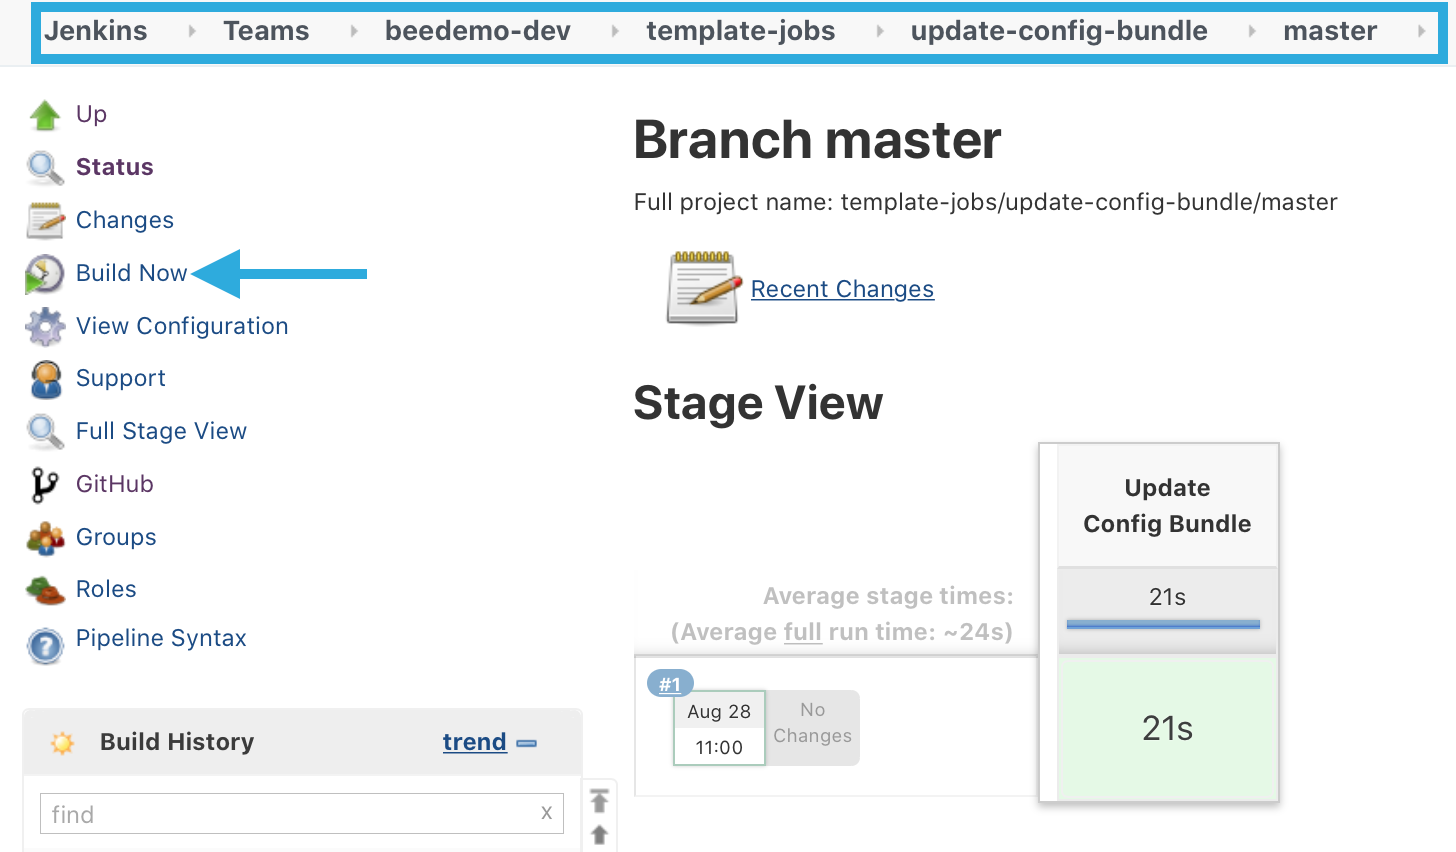
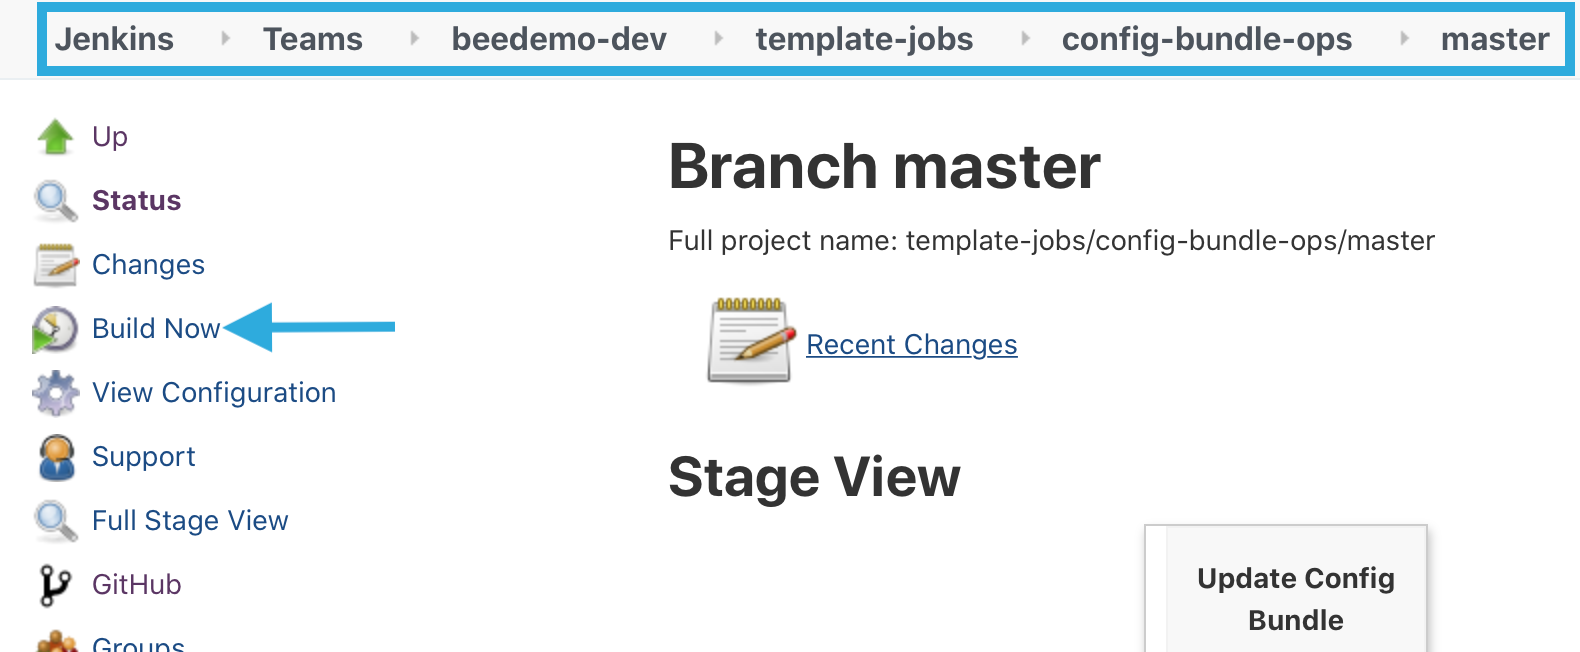
updated policies lab

diff --git a/labs/cloudbees-ci/content/module-1/pipeline-policies.md b/labs/cloudbees-ci/content/module-1/pipeline-policies.md
@@ -9,19 +9,19 @@ weight: 3
 In this lab you will create a [Pipeline Policy](https://docs.cloudbees.com/docs/admin-resources/latest/pipelines-user-guide/pipeline-policies) to ensure that all Pipeline jobs that run on your CloudBees CI ***managed controller*** (Jenkins instance) have a 30 minute global `timeout` set.
 
 1. Navigate to the top-level of your CloudBees CI managed controller and click on **Pipeline Policies** in the left menu. ![Pipeline Policies Link](policies-click.png?width=50pc) 
-2. Next click on the **New Policy** button.
+2. Next, on the **Pipeline Policies** screen, click on the **New Policy** button.
 3. Fill out the Pipeline Policy parameters:
-   1. **Name**: Timeout policy
-   2. **Action**: Fail
+   1. **Name**: ***Timeout policy***
+   2. **Action**: ***Fail***
    3. Click on **Add Rule** button: 
       1. Select **Pipeline Timeout**
       2. **Timeout**: 30 MINUTES
    4. Click the **Save** button ![Create Policy](policy-timeout-form.png?width=50pc) 
-4. Navigate back to the **update-config-bundle** Mutlibranch project in the **template-jobs** folder, click on the **master** branch job and then click the **Build Now** link in the left menu. ![Build with Policy](build-with-policy.png?width=50pc) 
+4. Navigate to the **config-bundle-ops** Mutlibranch project in the **template-jobs** folder, click on the **master** branch job and then click the **Build Now** link in the left menu. ![Build with Policy](build-with-policy.png?width=50pc) 
 5. Navigate to the logs for that build and you will see that the build failed due to **Validation Errors** ![Policy Error](pipeline-policy-error.png?width=50pc) 
 6. To fix this we will have to update the `Jenkinsfile` of the **CloudBees CI Configuration Bundle** template in your forked copy of the `pipeline-template-catalog` repository - remember, even though we are building from the `cloudbees-ci-config-bundle` repository, the `Jenkinsfile` is actually coming from the **CloudBees CI Configuration Bundle** template. Navigate to that `Jenkinsfile` and the click the **pencil icon** to open it in the GitHub file editor. ![Edit Timeout](pipeline-policy-open-jenkinsfile.png?width=50pc) 
-7. In the GitHub file editor, change the `time` value of the `timeout` pipeline `option`  from `60` to `30` and then click the **Commit changes** button to commit the updated `Jenkinsfile` to your **master** branch. ![Fix Timeout](pipeline-policy-fix-commit-jenkinsfile.png?width=50pc) 
-{{%expand "Expand to copy complete updated Jenkinsfile" %}}
+7. In the GitHub file editor, change the `time` value of the `timeout` pipeline `option`  from `60` to `10` and then click the **Commit changes** *(directly to the `master` branch)* button to commit the updated `Jenkinsfile` to your **master** branch. ![Fix Timeout](pipeline-policy-fix-commit-jenkinsfile.png?width=50pc) 
+{{%expand "expand to copy edited Jenkinsfile" %}}
 ```groovy
 @Library('pipeline-library@master') _
 pipeline {
@@ -29,7 +29,7 @@ pipeline {
   options {
     buildDiscarder(logRotator(numToKeepStr: '2'))
     skipDefaultCheckout true
-    timeout(time: 30, unit: 'MINUTES')
+    timeout(time: 10, unit: 'MINUTES')
   }
   stages {
     stage('Update Config Bundle') {
@@ -46,9 +46,9 @@ pipeline {
 ```
 {{% /expand%}}
 
-1. Next, to ensure that we are using the updated **CloudBees CI Configuration Bundle** template, we will **re-import** the Pipeline Template Catalog you just updated. Navigate to the top-level of your CloudBees CI ***managed controller*** and click on **Pipeline Template Catalogs** in the left menu and then click the **workshopCatalog** link. ![workshop Catalog link](workshop-catalog-link.png?width=50pc) 
-2.  On the next screen, click the **Run Catalog Import Now** link. ![Import Now](click-import-link.png?width=50pc)
-3.   After the import is complete, navigate back to the **master** branch job in the **update-config-bundle** Mutlibranch project in the **template-jobs** folder and click the **Build Now** link in the left menu. The build will complete successfully and the logs for that build will show that the Pipeline policy validated successfully. ![Policy Success](pipeline-policy-success.png?width=50pc)
+8. Next, to ensure that we are using the updated **CloudBees CI Configuration Bundle** template, we will check the Pipeline Template Catalog **Import Log**. Navigate to the top-level of your CloudBees CI ***managed controller*** and click on **Pipeline Template Catalogs** link in the left menu and then click the **workshopCatalog** link. ![workshop Catalog link](workshop-catalog-link.png?width=50pc) 
+9.  On the next screen, click the **Import Log** link to ensure the catalog was imported successfully and recently. ![Import Now](click-import-log-link.png?width=50pc)
+10.    After the import is complete, navigate back to the **master** branch job in the **config-bundle-ops** Mutlibranch project in the **template-jobs** folder and click the **Build Now** link in the left menu. The build will complete successfully and the logs for that build will show that the Pipeline policy validated successfully. ![Policy Success](pipeline-policy-success.png?width=50pc)
 
 ## Pipeline Policies as Code
 
@@ -56,11 +56,37 @@ Managing Pipeline Policies across a large number of ***managed controllers*** us
 
 Using the provided CLI commands allows the administrator to automate the management of Pipeline Policies across multiple managed controllers, which reduces efforts and consistency across all development teams. There are two provided CLI commands for working with Pipeline Policies, listing and creating/updating. 
 
-In this lab we leverage a Pipeline Template that uses the CloudBees CI `policies` CLI command to output the policy that you created above to a file and the push that to your fork of the `pipeline-policies` repository.
+In this lab we leverage a Pipeline Template that uses the CloudBees CI `policies` CLI command to output the policy that you created above to a file and then push that to a new branch on your fork of the `pipeline-policies` repository. We will then update the exported policy file in GitHub to update the policy on your ***managed controller***.
 
-1. Navigation into the **template-jobs** folder on your ***managed controller***.
+1. Navigate into the **template-jobs** folder on your ***managed controller***.
 2. Click on the **New Item** link in the left navigation menu.
 3. Enter ***pipeline-policies-ops*** as the **Item Name**, select **Pipeline Policies GitOps** template as the item type and then click the **OK** button. ![New Pipeline Policies GitOps template job](new-policies-template-job.png?width=50pc)
-4. On the next screen, fill in the **GitHub Organization** template parameters (all the other default values should be correct) and then click the **Save** button. ![Config Policies template Parameters](policies-template-params.png?width=50pc)
+4. On the next screen, fill in the **GitHub Organization** template parameter (all the other default values should be correct) and then click the **Save** button. ![Config Policies template Parameters](policies-template-params.png?width=50pc)
+5. Click on the **Scan Repository Log** link in the left menu to see the results of the branch indexing scan and then click on the **pipeline-catalog-ops** link at the top of the page. ![Scan Log](policy-ops-scan-log.png?width=50pc)
+6. Shortly after the **master** branch job completes successfully you will see a new **policy-patch** branch job. Click on the **policy-patch** branch job. ![policy-patch job](policy-patch-job.png?width=50pc)
+7. Click on the **GitHub** link in the left menu to navigate to that branch in GitHub on your fork of the `pipeline-policies` repository.
+8. Notice that there is now a `pipeline-policies.json` file, click on that file. ![pipeline-policies.json link](pipeline-policies-json-link.png?width=50pc)
+9. Click on the pencil icon to edit the file, then update the `maxTime` from `30` to `60` and then click the **Commit changes** button at the bottom of the screen. ![edit pipeline-policies.json](edit-pipeline-policies-json.png?width=50pc)
+{{%expand "expand to copy edited pipeline-policies.json" %}}
+```json
+[ {
+  "action" : "fail",
+  "customMessage" : "",
+  "description" : "",
+  "filter" : "",
+  "name" : "Timeout policy",
+  "rules" : [ {
+    "$class" : "EntirePipelineTimeoutRule",
+    "maxTime" : 60
+  } ]
+} ]
+```
+{{% /expand%}}
+10. Navigate back to the top level of your `pipeline-policies` repository and click the **Pull request** link. ![create pr](create-policy-pr.png?width=50pc)
+11. On the next screen accept the default values and then click the **Create pull request** button.
+12. On the next screen click the **Merge pull request** button and then the **Confirm merge** button to merge the changes with the `master` branch of your `pipeline-policies` repository and trigger the ***pipeline-policies-ops*** job on your ***managed controller***. ![merge pr](merge-policy-pr.png?width=50pc)
+13. On the next screen click the **Delete branch** button.
+14. Navigate to the top-level of your CloudBees CI managed controller and click on **Pipeline Policies** in the left menu.
+15. The **Timeout policy** you created in the previous lab will now have a **Timeout** value of `60 MINUTES`. ![updated policy](updated-policy.png?width=50pc)
 
 **For instructor led workshops please returns to the [workshop slides](https://cloudbees-days.github.io/core-rollout-flow-workshop/cloudbees-ci/#36).**
